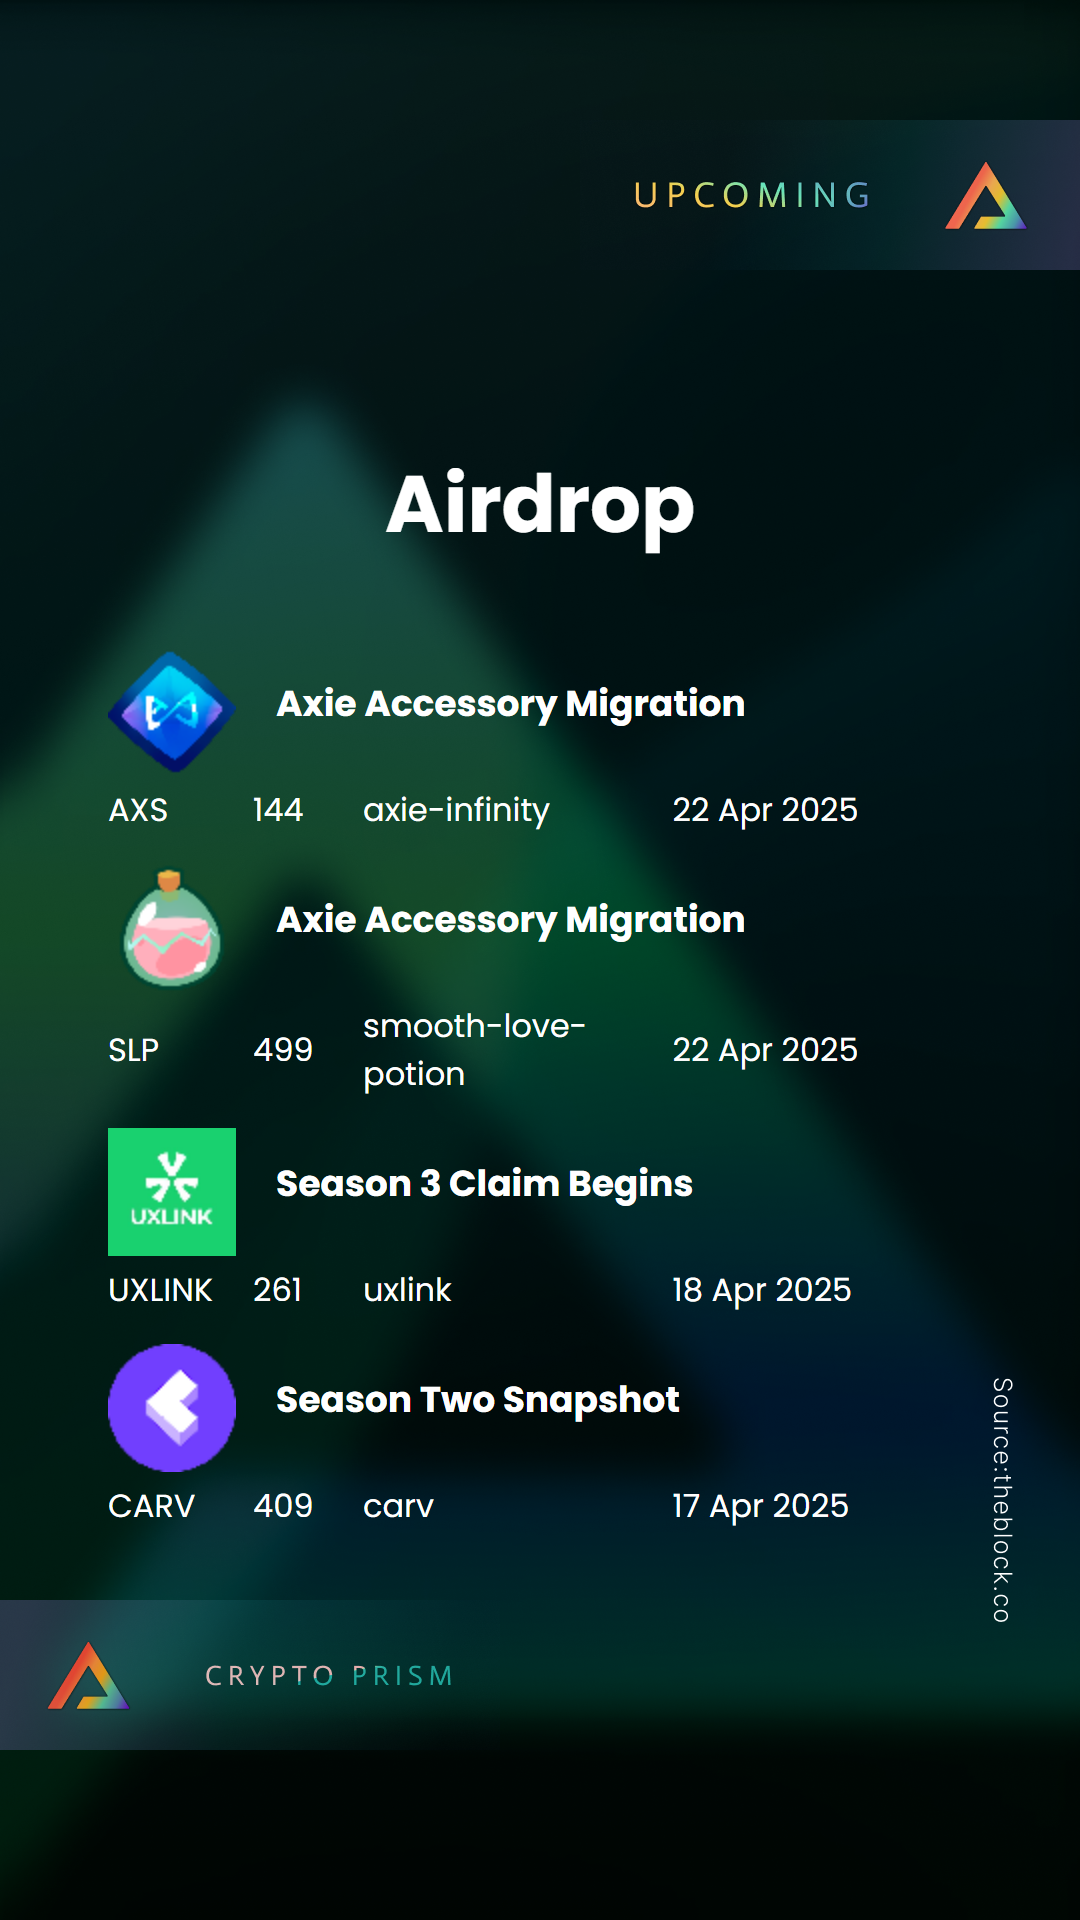
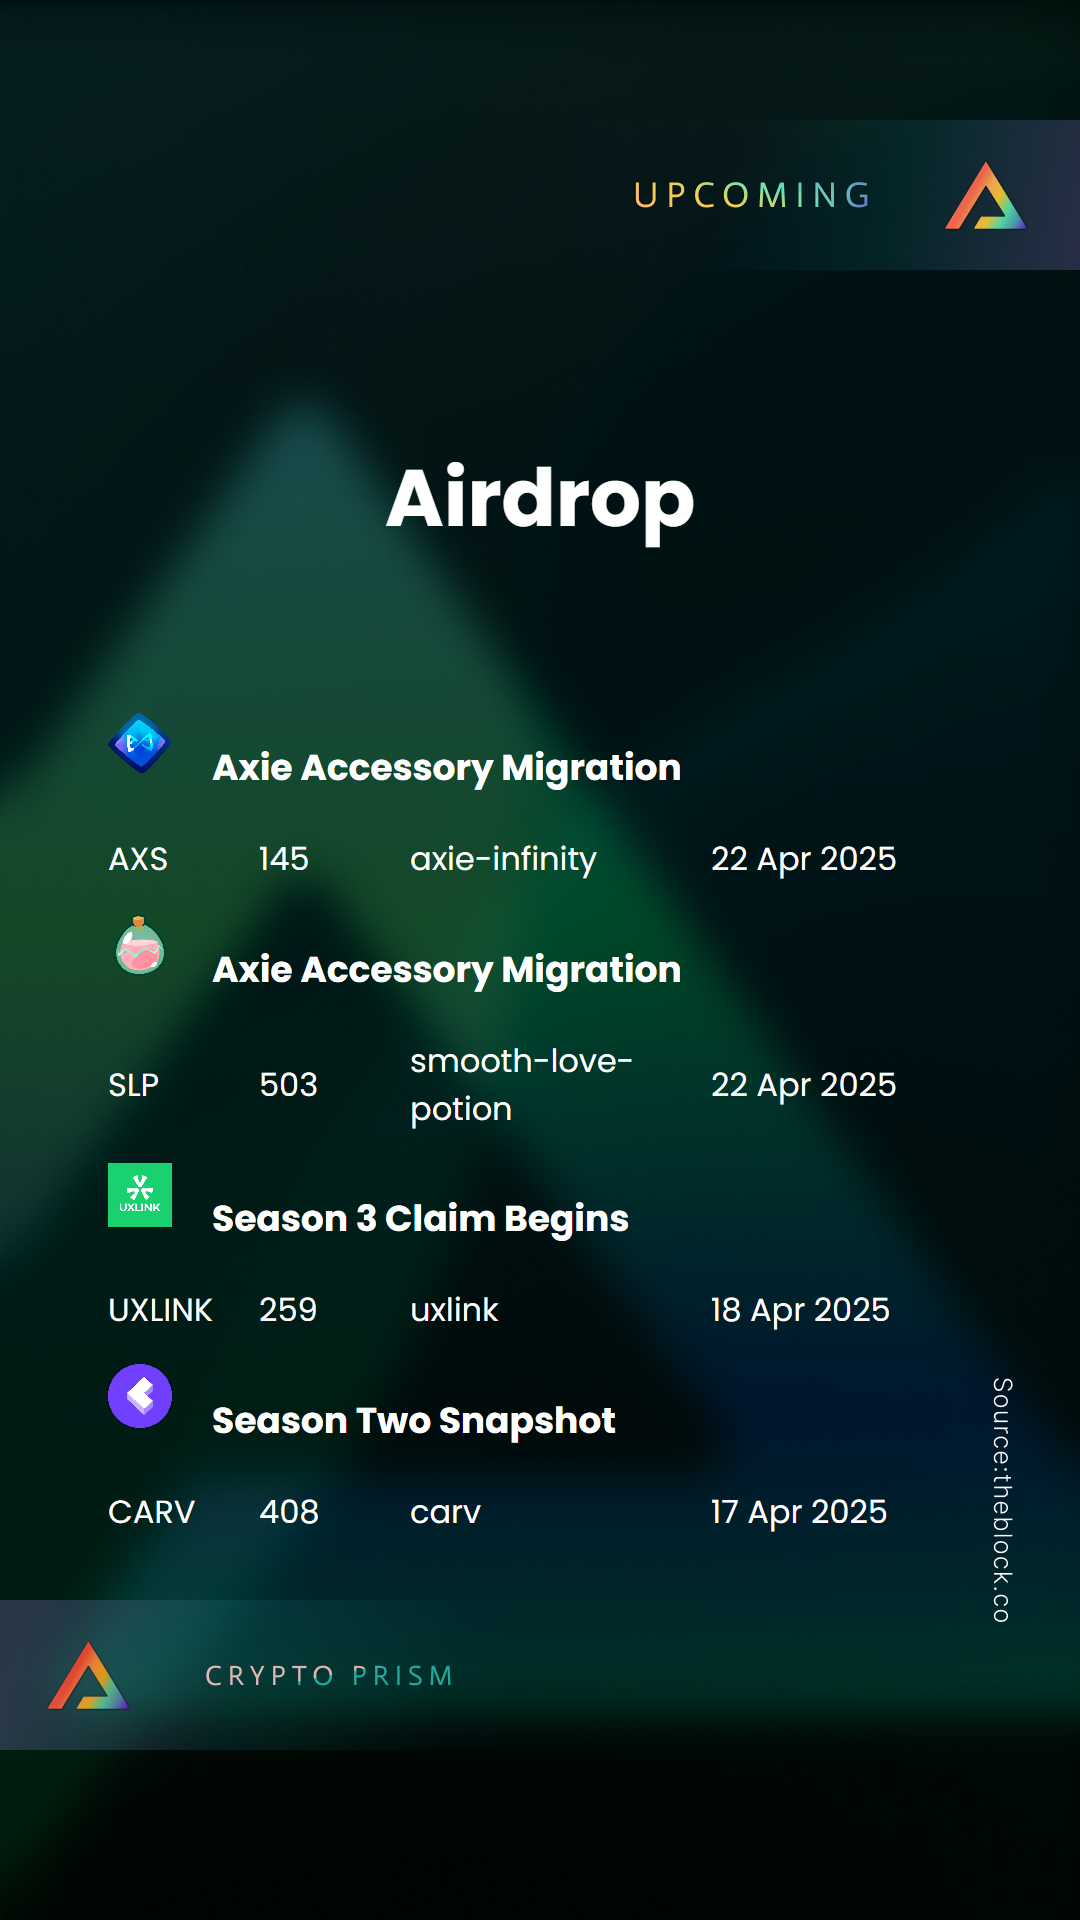
css

diff --git a/airdrop_output.html b/airdrop_output.html
@@ -21,7 +21,7 @@
                 </div>
                 <div class="row2">
                     <div class="symbol">AXS</div>
-                    <div class="rank">144</div>
+                    <div class="rank">145</div>
                     <div class="name">axie-infinity</div>
                     <div class="event">22 Apr 2025</div>
                 </div>
@@ -34,7 +34,7 @@
                 </div>
                 <div class="row2">
                     <div class="symbol">SLP</div>
-                    <div class="rank">499</div>
+                    <div class="rank">503</div>
                     <div class="name">smooth-love-potion</div>
                     <div class="event">22 Apr 2025</div>
                 </div>
@@ -47,7 +47,7 @@
                 </div>
                 <div class="row2">
                     <div class="symbol">UXLINK</div>
-                    <div class="rank">261</div>
+                    <div class="rank">259</div>
                     <div class="name">uxlink</div>
                     <div class="event">18 Apr 2025</div>
                 </div>
@@ -60,7 +60,7 @@
                 </div>
                 <div class="row2">
                     <div class="symbol">CARV</div>
-                    <div class="rank">409</div>
+                    <div class="rank">408</div>
                     <div class="name">carv</div>
                     <div class="event">17 Apr 2025</div>
                 </div>

diff --git a/templates/airdrop.html b/templates/airdrop.html
@@ -9,9 +9,6 @@
 </head>
 <body>
     <div class="container">
-        <div class="title-main">
-            <h1>Airdrop</h1>
-        </div>
         <div class="main-body">
             {% for data in df %}
             <div class="frame">

diff --git a/templates/airdrop.css b/templates/airdrop.css
@@ -31,6 +31,8 @@ html, body {
 }
 
 .container {
+    position: absolute;
+    top: 450px;
     width: 100%;
     height: fit-content;
     display: flex;
